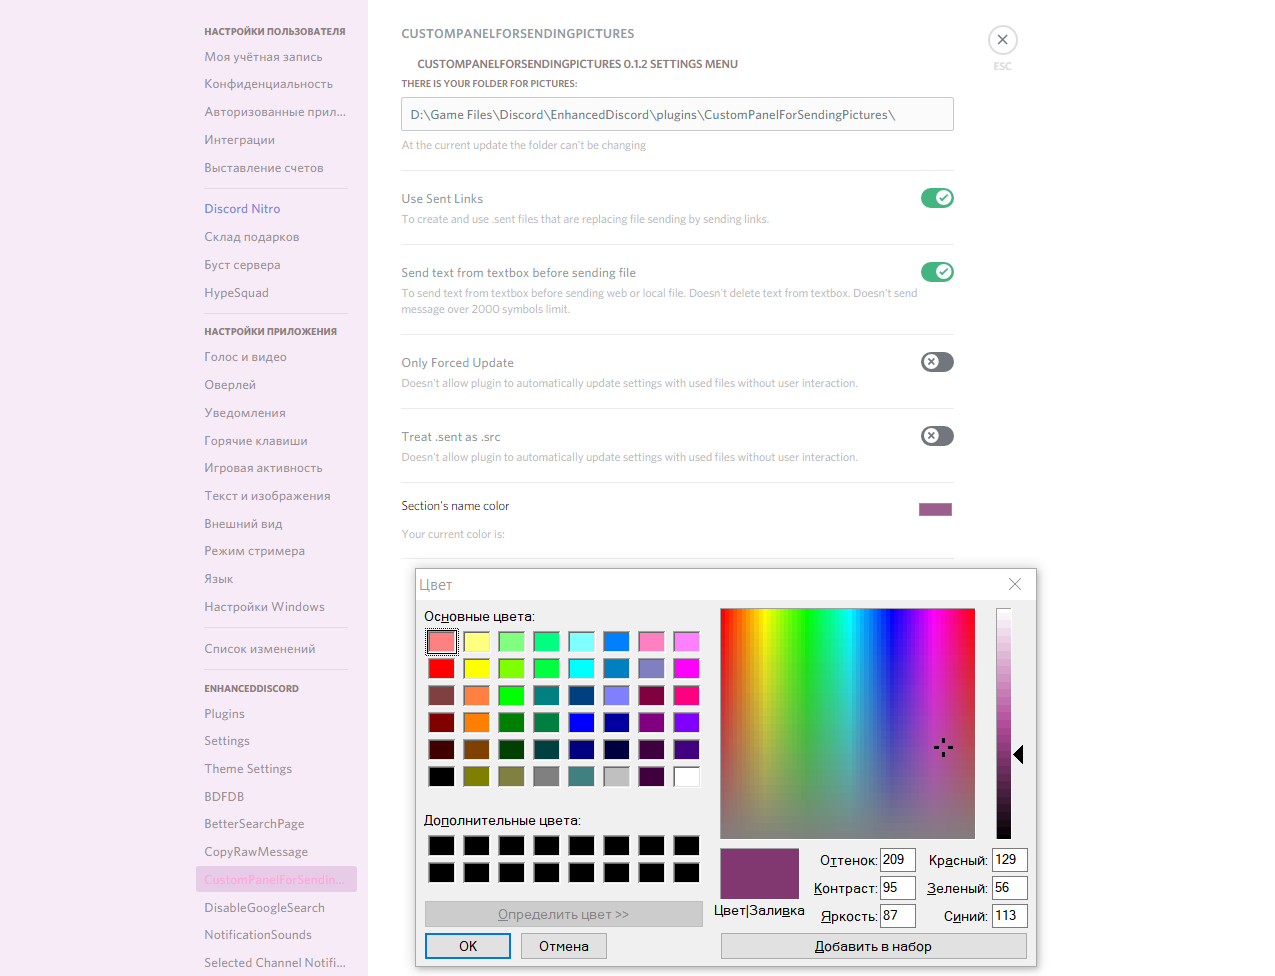
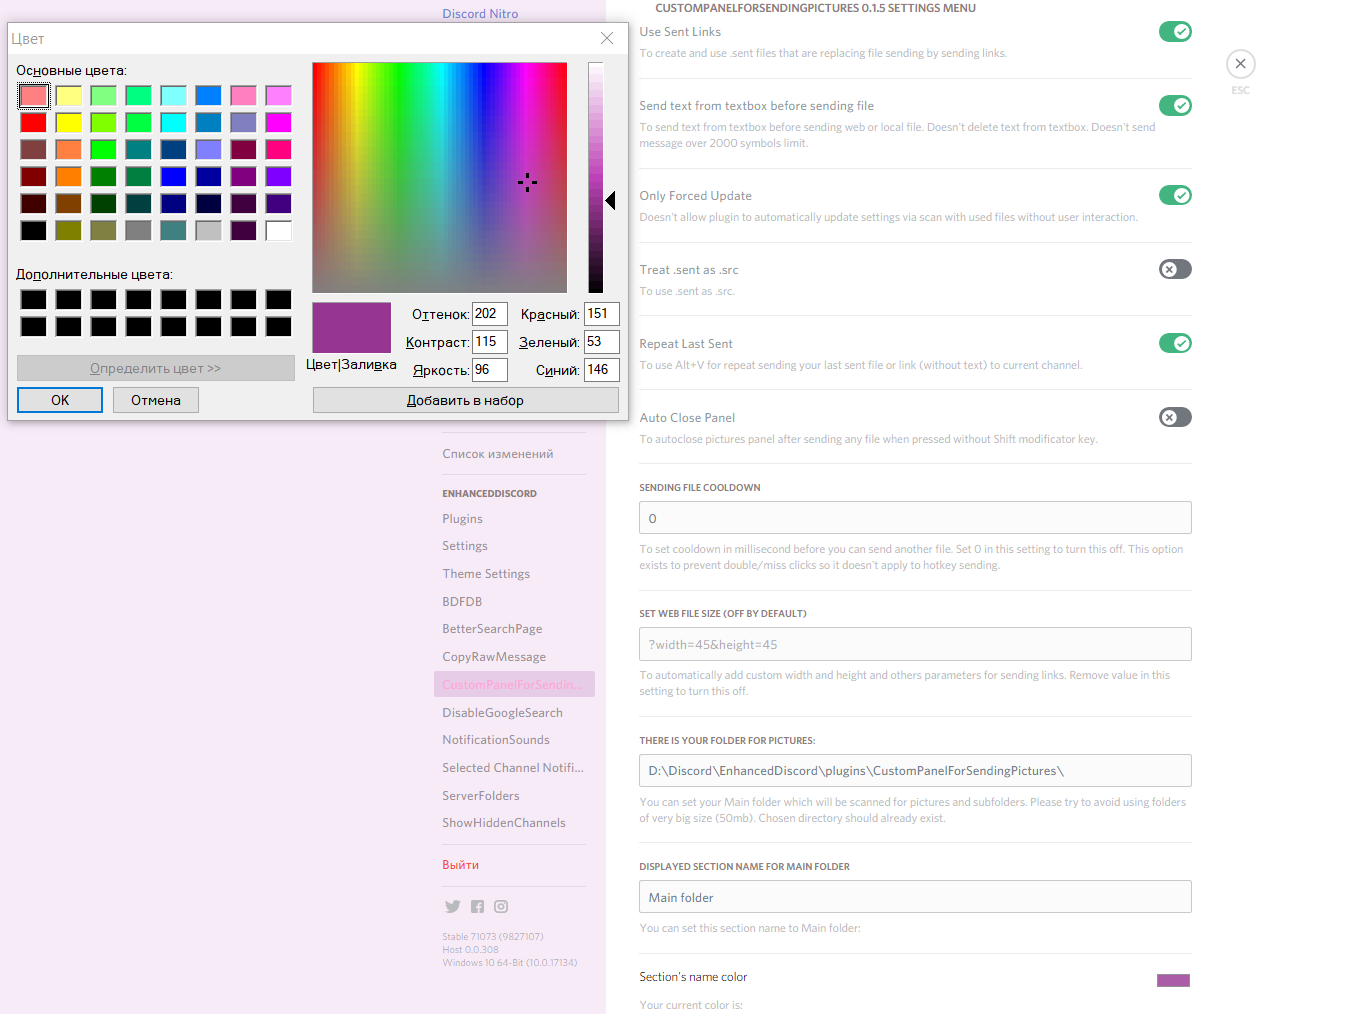
Big update (fixed empty subfolder bug and add many options)

diff --git a/CustomPanelForSendingPictures.plugin.js b/CustomPanelForSendingPictures.plugin.js
@@ -24,7 +24,7 @@ module.exports = (() =>
 					steam_link: "https://steamcommunity.com/id/EternalSchoolgirl/",
 					twitch_link: "https://www.twitch.tv/EternalSchoolgirl"
 			},
-			version: "0.1.5",
+			version: "0.1.6",
 			description: "Adds panel which load pictures by links from settings and allow you to repost pictures via clicking to their preview. Links are automatically created on scanning the plugin folder (supports subfolders and will show them as sections/groups).",
 			github: "https://github.com/Japanese-Schoolgirl/DiscordPlugin-CustomPanelForSendingPictures",
 			github_raw: "https://raw.githubusercontent.com/Japanese-Schoolgirl/DiscordPlugin-CustomPanelForSendingPictures/main/CustomPanelForSendingPictures.plugin.js"
@@ -32,9 +32,9 @@ module.exports = (() =>
 		changelog:
 		[
 			{
-				title: `Fixed issue with sending empty message`,
+				title: `Big update (fixed empty subfolder bug and added many options)`,
 				type: "fixed",
-				items: [`Discord have very weird checks for messages, so it was necessary to add other checks.`]
+				items: [`Fixed emtpy folder in subfolder bug and added following options: ability to Repeat last sent, Auto close panel, Sending file cooldown, to change Main folder path and Main folder display name.`]
 			}
 		]
 	};
@@ -82,23 +82,25 @@ module.exports = (() =>
 			settingsPath = pluginPath + config.info.name + '.settings.json';
 			configPath = pluginPath + config.info.name + '.configuration.json';
 			picturesPath = pluginPath + config.info.name + '\\';
+			var lastSent = {};
+			let sendingCooldown = {time: 0, duration: 0};
 			let scanningState;
 			let sentType = '.sent';
 			let srcType = '.src';
 			let mainFolderName = 'Main folder!/\\?'; // It'll still be used for arrays and objects. Change in configuration only affects at section's name
 			let folderListName = `?/\\!FolderList!/\\?`;
-			var Configuration = {
-				UseSentLinks:			{ Value: true, 					Title: `Use Sent Links`, 								Description: `To create and use .sent files that are replacing file sending by sending links.` },
-				SendTextWithFile:		{ Value: false, 				Title: `Send text from textbox before sending file`, 	Description: `To send text from textbox before sending web or local file. Doesn't delete text from textbox. Doesn't send message over 2000 symbols limit.` },
-				OnlyForcedUpdate:		{ Value: false, 				Title: `Only Forced Update`, 							Description: `Doesn't allow plugin to automatically update settings with used files without user interaction.` },
-				sentType2srcType:		{ Value: false, 				Title: `Treat ${sentType} as ${srcType}`, 				Description: `To use ${sentType} as ${srcType}.` },
-				RepeatLastSent:			{ Value: false, 				Title: `Repeat Last Sent`, 								Description: `To use Alt+V for repeat sending your last sent file or link (without text) to current channel.` },
-				AutoClosePanel:			{ Value: false, 				Title: `Auto Close Panel`, 								Description: `To autoclose pictures panel after sending any file when pressed without Shift modificator key.` },
-				SendingFileCooldown:	{ Value: 0, 					Title: `Sending File Cooldown`, 						Description: `To set cooldown before you can send another file. Set 0 in this setting to turn this off.` },
-				SetFileSize:			{ Value: '?width=45&height=45', Title: `Set web file size`, 							Description: `To automatically add custom width and height parameter for sending links.` },
-				mainFolderPath:			{ Value: picturesPath, 			Title: `Set your Main folder for pictures`, 			Description: `Set folder which will be scanned for pictures and subfolders. Please try to avoid using folders of very big size (50mb).` },
-				mainFolderNameDisplay:	{ Value: 'Main folder', 		Title: `Set displayed section name for Main folder`, 	Description: `Set this section name to Main folder:` },
-				SectionTextColor:		{ Value: 'color: #000000bb', 	Title: `Section's name color`, 							Description: `Your current color is:` }
+			var Configuration = { // Almost all Default values need only as placeholder
+				UseSentLinks:			{ Value: true, 					Default: true, 						Title: `Use Sent Links`, 								Description: `To create and use .sent files that are replacing file sending by sending links.` },
+				SendTextWithFile:		{ Value: false, 				Default: false, 					Title: `Send text from textbox before sending file`, 	Description: `To send text from textbox before sending web or local file. Doesn't delete text from textbox. Doesn't send message over 2000 symbols limit.` },
+				OnlyForcedUpdate:		{ Value: true, 					Default: true, 						Title: `Only Forced Update`, 							Description: `Doesn't allow plugin to automatically update settings via scan with used files without user interaction.` },
+				sentType2srcType:		{ Value: false, 				Default: false, 					Title: `Treat ${sentType} as ${srcType}`, 				Description: `To use ${sentType} as ${srcType}.` },
+				RepeatLastSent:			{ Value: false, 				Default: false, 					Title: `Repeat Last Sent`, 								Description: `To use Alt+V for repeat sending your last sent file or link (without text) to current channel.` },
+				AutoClosePanel:			{ Value: false, 				Default: false, 					Title: `Auto Close Panel`, 								Description: `To autoclose pictures panel after sending any file when pressed without Shift modificator key.` },
+				SendingFileCooldown:	{ Value: 0, 					Default: '0', 						Title: `Sending File Cooldown`, 						Description: `To set cooldown in millisecond before you can send another file. Set 0 in this setting to turn this off. This option exists to prevent double/miss clicks so it doesn't apply to hotkey sending.` },
+				SetFileSize:			{ Value: '', 					Default: '?width=45&height=45', 	Title: `Set web file size (off by default)`, 			Description: `To automatically add custom width and height and others parameters for sending links. Remove value in this setting to turn this off.` },
+				mainFolderPath:			{ Value: picturesPath, 			Default: picturesPath, 				Title: `There is your folder for pictures:`, 			Description: `You can set your Main folder which will be scanned for pictures and subfolders. Please try to avoid using folders of very big size (50mb). Chosen directory should already exist.` },
+				mainFolderNameDisplay:	{ Value: 'Main folder', 		Default: 'Main folder', 			Title: `Displayed section name for Main folder`, 		Description: `You can set this section name to Main folder:` },
+				SectionTextColor:		{ Value: 'color: #000000bb', 	Default: 'color: #000000bb', 		Title: `Section's name color`, 							Description: `Your current color is:` }
 			};
 	//-----------|  Start of Styles section |-----------//
 			var CPFSP_Styles = () => { return ` /* Extract from "emojiList" and etc classes + additional margin and fixes */
@@ -221,14 +223,13 @@ module.exports = (() =>
 				}
 				if(!Object.keys(newPicsGlobalSettings).length) { return funcs_.loadDefaultSettings(); }  // This happen when settings file is empty
 				picsGlobalSettings = newPicsGlobalSettings;
-				window.q = newPicsGlobalSettings;
 				return picsGlobalSettings;
 			}
 			funcs_.loadDefaultSettings = () =>
 			{
 				picsGlobalSettings = {};
 				picsSettings = [ { name: 'AnnoyingLisa', link: 'https://i.imgur.com/l5Jf0VP.png' }, { name: 'AngryLisaNoises', link: 'https://i.imgur.com/ntW5Vqt.png'} ]; // Placeholder
-				picsGlobalSettings[folderListName] = [ { name: mainFolderName, path: picturesPath } ];
+				picsGlobalSettings[folderListName] = [ { name: mainFolderName, path: Configuration.mainFolderPath.Value } ];
 				picsGlobalSettings[mainFolderName] = picsSettings;
 				//funcs_.saveSettings(picsGlobalSettings);
 				funcs_.saveSettings(picsGlobalSettings, true);
@@ -246,6 +247,11 @@ module.exports = (() =>
 					if(!newData[key]) { return };
 					Configuration[key].Value = newData[key];
 				});
+				if(Configuration.RepeatLastSent.Value)
+				{
+					document.body.removeEventListener('keydown', funcs_.RepeatLastSentFunc);
+					document.body.addEventListener('keydown', funcs_.RepeatLastSentFunc);
+				}
 			}
 			funcs_.saveConfiguration = () =>
 			{
@@ -266,16 +272,17 @@ module.exports = (() =>
 			funcs_.scanDirectory = (forced = null, repeat = null) =>
 			{ // Scanning plugin folder
 				if((Configuration.OnlyForcedUpdate.Value && !forced) && !repeat) { return funcs_.loadSettings(); }
-				if(fs_.existsSync(picturesPath))
+				if(fs_.existsSync(Configuration.mainFolderPath.Value))
 				{ // Exist
 					let waitPLS = jQuery.Deferred(); // First time when I uses this
 					scanningState = waitPLS.promise();
-					funcs_.findPictures(picturesPath, waitPLS);
+					funcs_.findPictures(Configuration.mainFolderPath.Value, waitPLS);
 					return funcs_.loadSettings(waitPLS); // funcs_.findPictures will store data in picsGlobalSettings, so with state it possible to decide when new data is received
 				}
 				else
 				{ // Not Exist
-					try { fs_.mkdirSync(picturesPath); } // Create folder
+					if(Configuration.mainFolderPath.Value.length < 2) { Configuration.mainFolderPath.Value = Configuration.mainFolderPath.Default; } // Protection against shoot on foots
+					try { fs_.mkdirSync(Configuration.mainFolderPath.Value); } // Try create folder
 					catch (err) { console.warn(err.code); }
 					if(!repeat) { funcs_.scanDirectory(forced, true); } // Fixed issue with necessary double scan when user delete folder
 					return false
@@ -293,7 +300,7 @@ module.exports = (() =>
 				{
 					if(err) { console.warn('Unable to scan directory:' + err); return funcs_.loadSettings(); }
 					let alreadySentFiles = [];
-					if(isFirstScan) { foldersForScan.push({ name: mainFolderName, path: picturesPath }); } // Adds necessary information about main folder
+					if(isFirstScan) { foldersForScan.push({ name: mainFolderName, path: Configuration.mainFolderPath.Value }); } // Adds necessary information about main folder
 					if(isFirstScan) { newAllPicsSettings[folderListName] = foldersForScan; } // Unnecessary reordering fix?
 					let currentFolder = isFirstScan ? mainFolderName : folderName; // Get name of current folder
 					let index = 0;
@@ -331,8 +338,8 @@ module.exports = (() =>
 						let found = newPicsSettings.find(el => el.name == file.name.slice(0, -sentType.length));
 						if(found) { found.link = file.link; }
 					});
-					if(!Object.keys(files).length)
-					{ // Delete empty folder from list and refresh list
+					if(!Object.keys(files).length || !Object.keys(newPicsSettings).length)
+					{ // Detect and adds emtpy folder to list for delete
 						//foldersForScan.splice(foldersForScan.findIndex((el) => el.name == currentFolder), 1); // Didn't work properly
 						//foldersForScan.find((el) => el.name == currentFolder).name = 'undefined';
 						//newAllPicsSettings[folderListName] = foldersForScan;
@@ -503,7 +510,7 @@ module.exports = (() =>
 					allPicsSettings = funcs_.loadSettings();
 					// console.log(allPicsSettings.state() == 'pending') not stable
 					creatingPanel();
-					if(!once) { scanningState.done(setTimeout(()=> { funcs_.moveToPicturesPanel('refresh', true) }, 400)); } // Sorry for such a bad solution
+					if(!once && scanningState) { scanningState.done(setTimeout(()=> { funcs_.moveToPicturesPanel('refresh', true) }, 400)); } // Sorry for such a bad solution
 				});
 			}
 			funcs_.addPicturesPanelButton = async (emojisGUI) =>
@@ -523,16 +530,44 @@ module.exports = (() =>
 				buttonCPFSP.addEventListener('click', funcs_.moveToPicturesPanel);
 				emojisMenu.append(buttonCPFSP);
 			}
-			funcs_.send2ChatBox = async (from) =>
+			funcs_.send2ChatBox = async (from) => // from is event
 			{
 				if(!from) { return }
-				let link = from.target.getAttribute('src'); // Only for events from clicking at imgs
+				if(!!Configuration.SendingFileCooldown.Value && !isNaN(Configuration.SendingFileCooldown.Value))
+				{ // Cooldown
+					if(!sendingCooldown.time)
+					{
+						sendingCooldown.time = Configuration.SendingFileCooldown.Value;
+						sendingCooldown.duration = (setTimeout(()=> { sendingCooldown.time = 0 }, Configuration.SendingFileCooldown.Value));
+					}
+					else if(sendingCooldown.time != Configuration.SendingFileCooldown.Value)
+					{
+						clearTimeout(sendingCooldown.duration);
+						sendingCooldown.time = Configuration.SendingFileCooldown.Value;
+						sendingCooldown.duration = (setTimeout(()=> { sendingCooldown.time = 0 }, Configuration.SendingFileCooldown.Value));
+					}
+					else { console.log(config.info.name, 'message: default cooldown time is', sendingCooldown.time); return }
+				} else if(sendingCooldown.time) { sendingCooldown.time = 0; }
+
+				let link = Configuration.SetFileSize.Value.length ? from.target.getAttribute('src')+Configuration.SetFileSize.Value: from.target.getAttribute('src'); // Only for events from clicking at imgs
 				let path = from.target.getAttribute('path');
 				let name = from.target.getAttribute('alt');
 				let channelID = DiscordAPI.currentChannel.id; // or if from other library: BDFDB.ChannelUtils.getSelected().id
 				let ChatBox = document.querySelector('div[class*="channelTextArea-"]').querySelector('div[role*="textbox"]'); // User's textbox
 				//let ChatBoxText = ChatBox ? Array.from(ChatBox.querySelectorAll('span')).pop() : null;
 				if(!ChatBox) { return } // Stop method if user doesn't have access to chat
+
+				if(Configuration.AutoClosePanel.Value)
+				{
+					if(document.getElementById(elementNames.CPFSP_buttonID) && !from.shiftKey)
+					{ // Below code will run if panel is displayed && click without shift key
+						let clickEvent = ChatBox.ownerDocument.createEvent('MouseEvents');
+						clickEvent.initMouseEvent("mousedown", true, true, ChatBox.ownerDocument.defaultView, 0, 0, 0, 0, 0, false, false, false, false, 0, null); // Thanks stackoverflow.com ;)
+						ChatBox.dispatchEvent(clickEvent);
+					}
+				}
+
+				// Sending
 				if(Configuration.SendTextWithFile.Value)
 				{ // Send text from textbox before send file
 					if(ChatBox.innerText.length < 2002)
@@ -545,7 +580,8 @@ module.exports = (() =>
 				if(link.indexOf(';base64,') != -1)
 				{
 					path = decodeURI(path.replace('file:///', '')); // I know this stupid, but file:/// I need for features, maybe :/
-					uploadModule.upload(channelID, new File([fs_.readFileSync(path)], name));
+					uploadModule.upload(channelID, file = new File([fs_.readFileSync(path)], name));
+					lastSent = { file: file, link: null };
 					return
 				}
 				/* // DEPRECATED (c)0.0.1 version //
@@ -555,7 +591,24 @@ module.exports = (() =>
 					content: `${link}`
 				}); // Adds text to user's textbox
 				*/
-				DiscordAPI.currentChannel.sendMessage(link);
+				lastSent = { file: null, link: link};
+				return DiscordAPI.currentChannel.sendMessage(link);
+			}
+			funcs_.RepeatLastSentFunc = (event) =>
+			{
+				if(!Configuration.RepeatLastSent.Value) { return }
+				if(!event.altKey || event.which != 86) { return } // 86 is V key, 18 is Alt
+				if(!lastSent) { return }
+				if(!lastSent.file && !lastSent.link) { return }
+				if(lastSent.file)
+				{
+					let channelID = DiscordAPI.currentChannel.id;
+					uploadModule.upload(channelID, lastSent.file);
+				}
+				else if(lastSent.link)
+				{
+					DiscordAPI.currentChannel.sendMessage(lastSent.link);
+				}
 			}
 			funcs_.DiscordMenuObserver = new MutationObserver((mutations) =>
 			{
@@ -598,6 +651,7 @@ module.exports = (() =>
 					{
 						funcs_.DiscordMenuObserver.disconnect();
 						funcs_.setStyles('delete');
+						document.body.removeEventListener('keydown', funcs_.RepeatLastSentFunc);
 						funcs_ = null;
 						console.log(config.info.name, 'stopped');
 						Patcher.unpatchAll();
@@ -607,33 +661,75 @@ module.exports = (() =>
 				getSettingsPanel()
 				{
 					const Panel = document.createElement('div');
+					var PanelElements = {};
 					Panel.setAttribute('class', 'form');
 					Panel.setAttribute('style', 'width:100%;');
 					new Settings.SettingGroup(`${this.getName()} ${config.info.version} Settings Menu`, { shown:true }).appendTo(Panel)
-						.append(new Settings.Textbox('There is your folder for pictures:', `At the current update the folder can't be changing`, `${picturesPath}`, text =>
-						{
-							// DEBUG // console.log(text);
-						}))
+						// Use Sent Links
 						.append(new Settings.Switch(Configuration.UseSentLinks.Title, Configuration.UseSentLinks.Description, Configuration.UseSentLinks.Value, checked =>
 						{
 							Configuration.UseSentLinks.Value = checked;
 							funcs_.saveConfiguration();
 						}))
+						// Send Text With File
 						.append(new Settings.Switch(Configuration.SendTextWithFile.Title, Configuration.SendTextWithFile.Description, Configuration.SendTextWithFile.Value, checked =>
 						{
 							Configuration.SendTextWithFile.Value = checked;
 							funcs_.saveConfiguration();
 						}))
+						// Only Forced Update
 						.append(new Settings.Switch(Configuration.OnlyForcedUpdate.Title, Configuration.OnlyForcedUpdate.Description, Configuration.OnlyForcedUpdate.Value, checked =>
 							{
 								Configuration.OnlyForcedUpdate.Value = checked;
 								funcs_.saveConfiguration();
 						}))
-						.append(new Settings.Switch(Configuration.sentType2srcType.Title, Configuration.OnlyForcedUpdate.Description, Configuration.sentType2srcType.Value, checked =>
+						// sentType to srcType
+						.append(new Settings.Switch(Configuration.sentType2srcType.Title, Configuration.sentType2srcType.Description, Configuration.sentType2srcType.Value, checked =>
 						{
 							Configuration.sentType2srcType.Value = checked;
 							funcs_.saveConfiguration();
 						}))
+						// Repeat Last Sent
+						.append(new Settings.Switch(Configuration.RepeatLastSent.Title, Configuration.RepeatLastSent.Description, Configuration.RepeatLastSent.Value, checked =>
+						{
+							Configuration.RepeatLastSent.Value = checked;
+							funcs_.saveConfiguration();
+						}))
+						// Auto Close Panel
+						.append(new Settings.Switch(Configuration.AutoClosePanel.Title, Configuration.AutoClosePanel.Description, Configuration.AutoClosePanel.Value, checked =>
+						{
+							Configuration.AutoClosePanel.Value = checked;
+							funcs_.saveConfiguration();
+						}))
+						// Sending File Cooldown
+						.append(new Settings.Textbox(Configuration.SendingFileCooldown.Title, Configuration.SendingFileCooldown.Description, Configuration.SendingFileCooldown.Value, text =>
+						{
+							if(isNaN(text)) { return }
+							Configuration.SendingFileCooldown.Value = text;
+							funcs_.saveConfiguration();
+						}, { placeholder: Configuration.SendingFileCooldown.Default }))
+						// Set File Size
+						.append(new Settings.Textbox(Configuration.SetFileSize.Title, Configuration.SetFileSize.Description, Configuration.SetFileSize.Value, text =>
+						{
+							Configuration.SetFileSize.Value = text;
+							funcs_.saveConfiguration();
+						}, { placeholder: Configuration.SetFileSize.Default }))
+						// Main Folder Path
+						.append(new Settings.Textbox(Configuration.mainFolderPath.Title, Configuration.mainFolderPath.Description, Configuration.mainFolderPath.Value, text =>
+						{
+							if(!text.length) { return }
+							if(!fs_.existsSync(text)) { return Configuration.mainFolderPath.Value = Configuration.mainFolderPath.Default; }
+							Configuration.mainFolderPath.Value = text;
+							funcs_.saveConfiguration();
+						}, { placeholder: Configuration.mainFolderPath.Default }))
+						// Main Folder Name Display
+						.append(new Settings.Textbox(Configuration.mainFolderNameDisplay.Title, Configuration.mainFolderNameDisplay.Description, Configuration.mainFolderNameDisplay.Value, text =>
+						{
+							if(!text.length) { return }
+							Configuration.mainFolderNameDisplay.Value = text;
+							funcs_.saveConfiguration();
+						}, { placeholder: Configuration.mainFolderNameDisplay.Default }))
+						// Section Text Color
 						.append(new Settings.ColorPicker(Configuration.SectionTextColor.Title, Configuration.SectionTextColor.Description, Configuration.SectionTextColor.Value, color =>
 							{
 								Configuration.SectionTextColor.Value = color;
